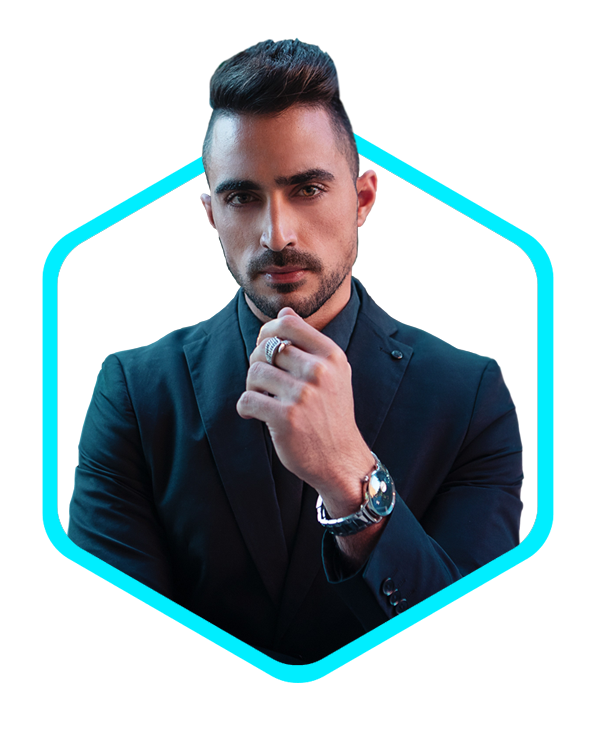
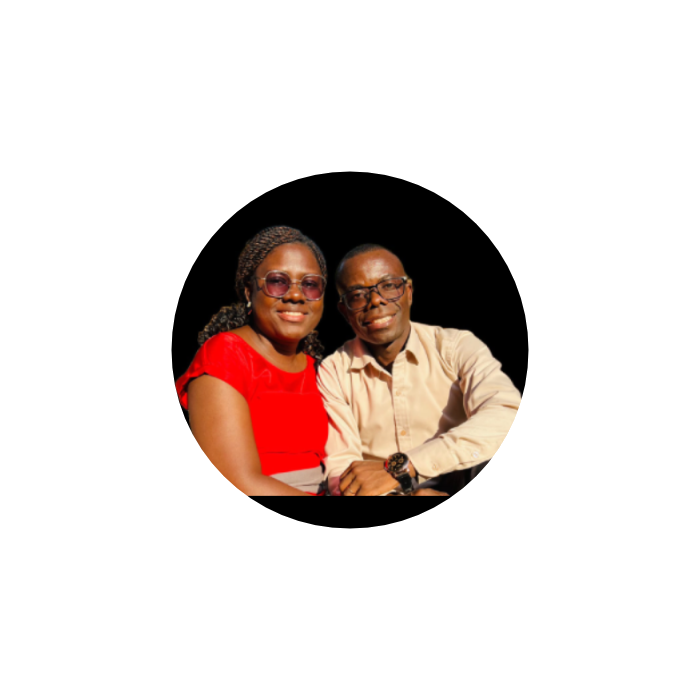
3 parte

diff --git a/index.html b/index.html
@@ -52,6 +52,48 @@
 
 </section>
 
+<!--Secao sobre-->
+<section class="about" id="about">
+    <div class="about-img">
+        <img src="images/about.png" alt="">
+    </div>
+    <div class="about-content">
+        <h2 class="heading">Sobre <span>mim</span></h2>
+        <h3>Desenvolvedor Frontend</h3>
+        <p>Lorem ipsum dolor sit amet consectetur adipisicing elit. Quisquam, voluptatum. Lorem ipsum dolor sit amet consectetur adipisicing elit. Quisquam, voluptatum.</p>
+       <a href="#" class="btn">Saiba mais</a>
+    </div>
+
+</section>
+
+
+<!--Secao serviços-->
+<section class="services" id="services">
+    <h2 class="heading">Meus <span>Serviços</span></h2>
+    <div class="services-container">
+        <div class="service-box">
+            <i class='bx bx-code-alt' ></i>
+            <h3>Desenvolvimento Web</h3>
+            <p>Lorem ipsum dolor sit amet consectetur adipisicing elit. Quisquam, voluptatum.</p>
+            <a href="#" class="btn">Saiba mais</a>
+        </div>
+
+        <div class="service-box">
+            <i class='bx bxs-paint'></i>
+            <h3>Desenho gráfico</h3>
+            <p>Lorem ipsum dolor sit amet consectetur adipisicing elit. Quisquam, voluptatum.</p>
+            <a href="#" class="btn">Saiba mais</a>
+        </div>
+
+        <div class="service-box">
+            <i class='bx bx-bar-chart-alt'></i>
+            <h3>Marketing Digital</h3>
+            <p>Lorem ipsum dolor sit amet consectetur adipisicing elit. Quisquam, voluptatum.</p>
+            <a href="#" class="btn">Saiba mais</a>
+        </div>
+    </div>
+</section>
+
 
     <script src="js/script.js"></script>
 </body>

diff --git a/css/style.css b/css/style.css
@@ -132,8 +132,7 @@ span {
     display: inline-block;
     padding: 1rem 2.8rem;
     background: var(--main-color);
-    border-radius: .5rem;
-    border:4rem;
+    border-radius: 4rem;
     box-shadow: 0 0 1rem var(--main-color);
     font-size: 1.6rem;
     color: var(--second-bg-color);
@@ -143,4 +142,77 @@ span {
 }
 .btn:hover {
     box-shadow:none
+}
+
+.about {
+    display: flex;
+    justify-content: center;
+    align-items: center;
+    gap: 2rem;
+    background-color: var(--second-bg-color);   
+}
+
+.about-img img {
+    width: 40vw;
+}
+
+.heading{
+    text-align: center;
+    font-size: 4.5rem;
+}
+
+.about-content h2{
+    text-align: left;
+    line-height: 1.2;
+}
+
+.about-content h3{
+    font-size: 2.6rem;
+   
+}   
+
+.about-content p{
+    font-size: 1.6rem;
+    margin: 2rem 0 3rem;
+   
+}
+
+.services h2{
+   margin-bottom: 5rem;
+}
+.services-container {
+    display: flex;
+    justify-content: center;
+    align-items: center;
+    flex-wrap: wrap;
+     gap: 2rem;
+}
+
+.services-container .service-box{
+    flex: 1 1 30rem;
+    background-color: var(--second-bg-color);
+    padding: 3rem 2rem 4rem;
+    border-radius: 2rem;
+    text-align: center;
+    border: .2rem var(--bg-color);  
+    transition: .5s ease;  
+}
+
+.services-container .service-box:hover {
+   border-color: var(--main-color);
+   transform: scale(1.02);
+}
+
+.service-box i {
+    font-size: 7rem;
+    color: var(--main-color);
+}
+
+.service-box h3 {
+    font-size: 2.6rem;
+
+}
+.service-box p {
+    font-size: 1.6rem;
+    margin: 1rem 0 3rem;
 }
